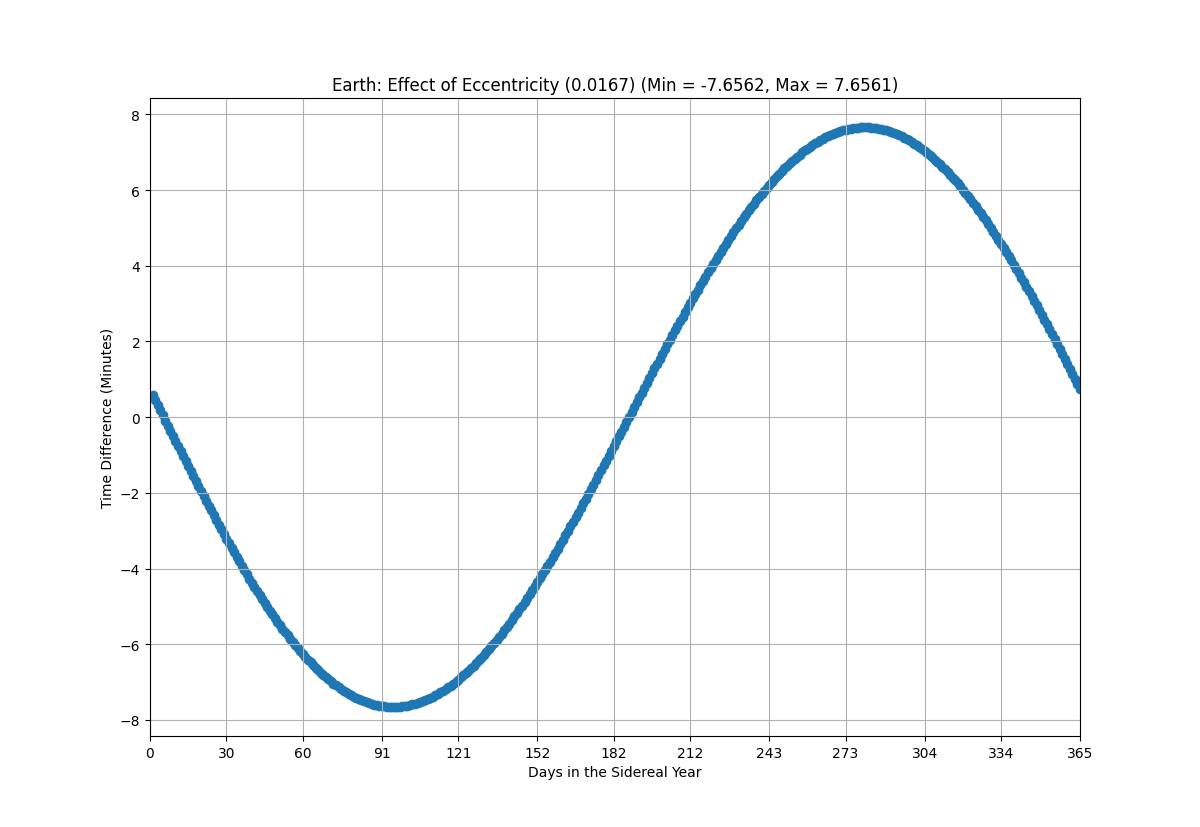
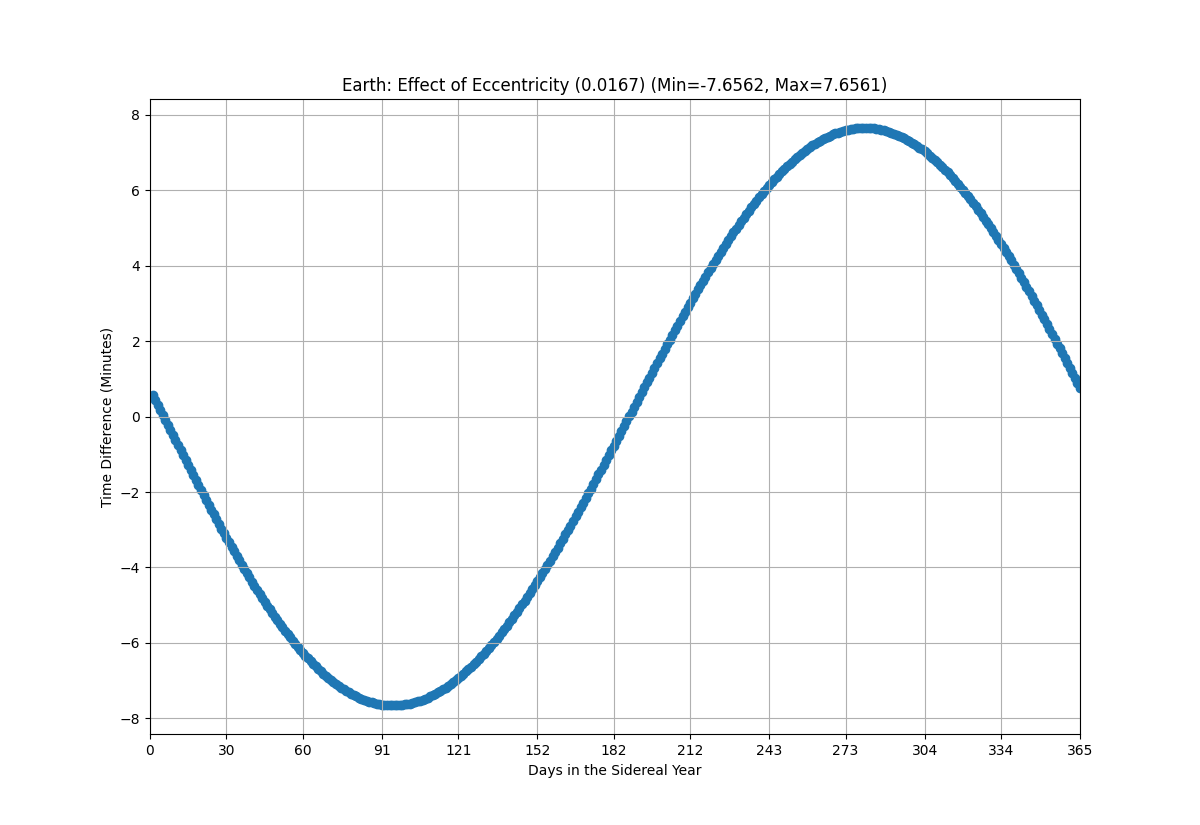
remove effect title, set default title

diff --git a/generate_examples_eot_charts.py b/generate_examples_eot_charts.py
@@ -14,5 +14,23 @@ if __name__ == '__main__':
 	#				["Neptune", 0.0086, 29.56, 30.0611]]
 
 	earth_eot = muller_eot.EOT(eccentricity=0.0167, obliquity=23.45, orbit_period=365.25)
-	print(earth_eot.eotDayAndMinutes)
-	earth_eot.plotEOT()
+	title = "Earth: Effect of Eccentricity ({0}) and Obliquity ({1}) (Min={2:.4f}, Max={3:.4f})".format(0.0167, 
+																								23.45,
+																								min(earth_eot.eotDayAndMinutes.values()), 
+																								max(earth_eot.eotDayAndMinutes.values()))
+	earth_eot.plotEOT(plot_title=title,
+					save_plot_name="examples/earth_eot_testing.png")
+
+	earth_eot = muller_eot.EOT(eccentricity=0.0167, obliquity=0, orbit_period=365.25)
+	title = "Earth: Effect of Eccentricity ({0}) (Min={1:.4f}, Max={2:.4f})".format(0.0167, 
+																			min(earth_eot.eotDayAndMinutes.values()), 
+																			max(earth_eot.eotDayAndMinutes.values()))
+	earth_eot.plotEOT(plot_title=title,
+					save_plot_name="examples/earth_eccentricity_testing.png")
+
+	earth_eot = muller_eot.EOT(eccentricity=0, obliquity=23.45, orbit_period=365.25)
+	title = "Earth: Effect of Obliquity ({0}) (Min={1:.4f}, Max={2:.4f})".format(23.45, 
+																		min(earth_eot.eotDayAndMinutes.values()), 
+																		max(earth_eot.eotDayAndMinutes.values()))
+	earth_eot.plotEOT(plot_title=title,
+					save_plot_name="examples/earth_obliquity_testing.png")

diff --git a/muller_eot/error_handling.py b/muller_eot/error_handling.py
@@ -40,16 +40,15 @@ def errorHandlingEOT(eccentricity,
 		exit()
 	logger.debug("orbit_period = '{0}'".format(orbit_period))
 
-def errorHandlingPlotEOT(eot_dict,
-						effect_title,
-						plot_title,
-						plot_x_title,
-						plot_y_title,
-						showPlot,
-						fig_plot_color,
-						figsize_n,
-						figsize_dpi,
-						save_plot_name):
+def errorHandlingPlotEOT(eot_dict=None,
+						plot_title=None,
+						plot_x_title=None,
+						plot_y_title=None,
+						showPlot=None,
+						fig_plot_color=None,
+						figsize_n=None,
+						figsize_dpi=None,
+						save_plot_name=None):
 
 	# Ensure that all values in eot_dict for minute differences is a float or int
 	if type(eot_dict) is not dict:
@@ -63,12 +62,6 @@ def errorHandlingPlotEOT(eot_dict,
 		logger.critical("\nCRITICAL ERROR, [eot_dict.values()]: Must have a length greater than zero")
 		exit()
 	logger.debug("eot_dict = '{0}'".format(eot_dict))
-
-	# Ensure that the effect title type is a string
-	if effect_title is not None:
-		if type(effect_title) != str:
-			logger.critical("\nCRITICAL ERROR, [effect_title]: Must be a str, current type = '{0}'".format(type(effect_title)))
-			exit()
 
 	# Ensure that plot_title is a string
 	if plot_title is not None and type(plot_title) != str:

diff --git a/muller_eot/calculate_eot.py b/muller_eot/calculate_eot.py
@@ -90,7 +90,6 @@ def calculateDifferenceEOTMinutes(eccentricity=None,
 	return eot_dict
 
 def plotEOT(eot_dict={},
-			effect_title=None,
 			plot_title=None,
 			plot_x_title=None,
 			plot_y_title=None,
@@ -101,16 +100,15 @@ def plotEOT(eot_dict={},
 			save_plot_name=None):
 	# Plot EOT Time Differences
 
-	muller_eot.errorHandlingPlotEOT(eot_dict,
-									effect_title,
-									plot_title,
-									plot_x_title,
-									plot_y_title,
-									showPlot,
-									fig_plot_color,
-									figsize_n,
-									figsize_dpi,
-									save_plot_name) # Verify argument behavior
+	muller_eot.errorHandlingPlotEOT(eot_dict=eot_dict,
+									plot_title=plot_title,
+									plot_x_title=plot_x_title,
+									plot_y_title=plot_y_title,
+									showPlot=showPlot,
+									fig_plot_color=fig_plot_color,
+									figsize_n=figsize_n,
+									figsize_dpi=figsize_dpi,
+									save_plot_name=save_plot_name) # Verify argument behavior
 
 	fig = plt.figure(figsize=(figsize_n,figsize_n), dpi=figsize_dpi)
 

diff --git a/muller_eot/eotClass.py b/muller_eot/eotClass.py
@@ -13,21 +13,21 @@ class EOT:
 															orbit_period=self.orbit_period)
 
 	def plotEOT(self,
-				effect_title=None,
 				plot_title=None,
 				plot_x_title=None,
 				plot_y_title=None,
 				showPlot=True,
 				fig_plot_color="C0",
 				figsize_n=12,
-				figsize_dpi=100):
+				figsize_dpi=100,
+				save_plot_name=None):
 		# Plot the EOT time difference generated from calculateDifferenceEOTMinutes()
 		muller_eot.plotEOT(eot_dict=self.eotDayAndMinutes,
-							effect_title=effect_title,
 							plot_title=plot_title,
 							plot_x_title=plot_x_title,
 							plot_y_title=plot_y_title,
 							showPlot=showPlot,
 							fig_plot_color=fig_plot_color,
 							figsize_n=figsize_n,
-							figsize_dpi=figsize_dpi)
+							figsize_dpi=figsize_dpi,
+							save_plot_name=save_plot_name)
